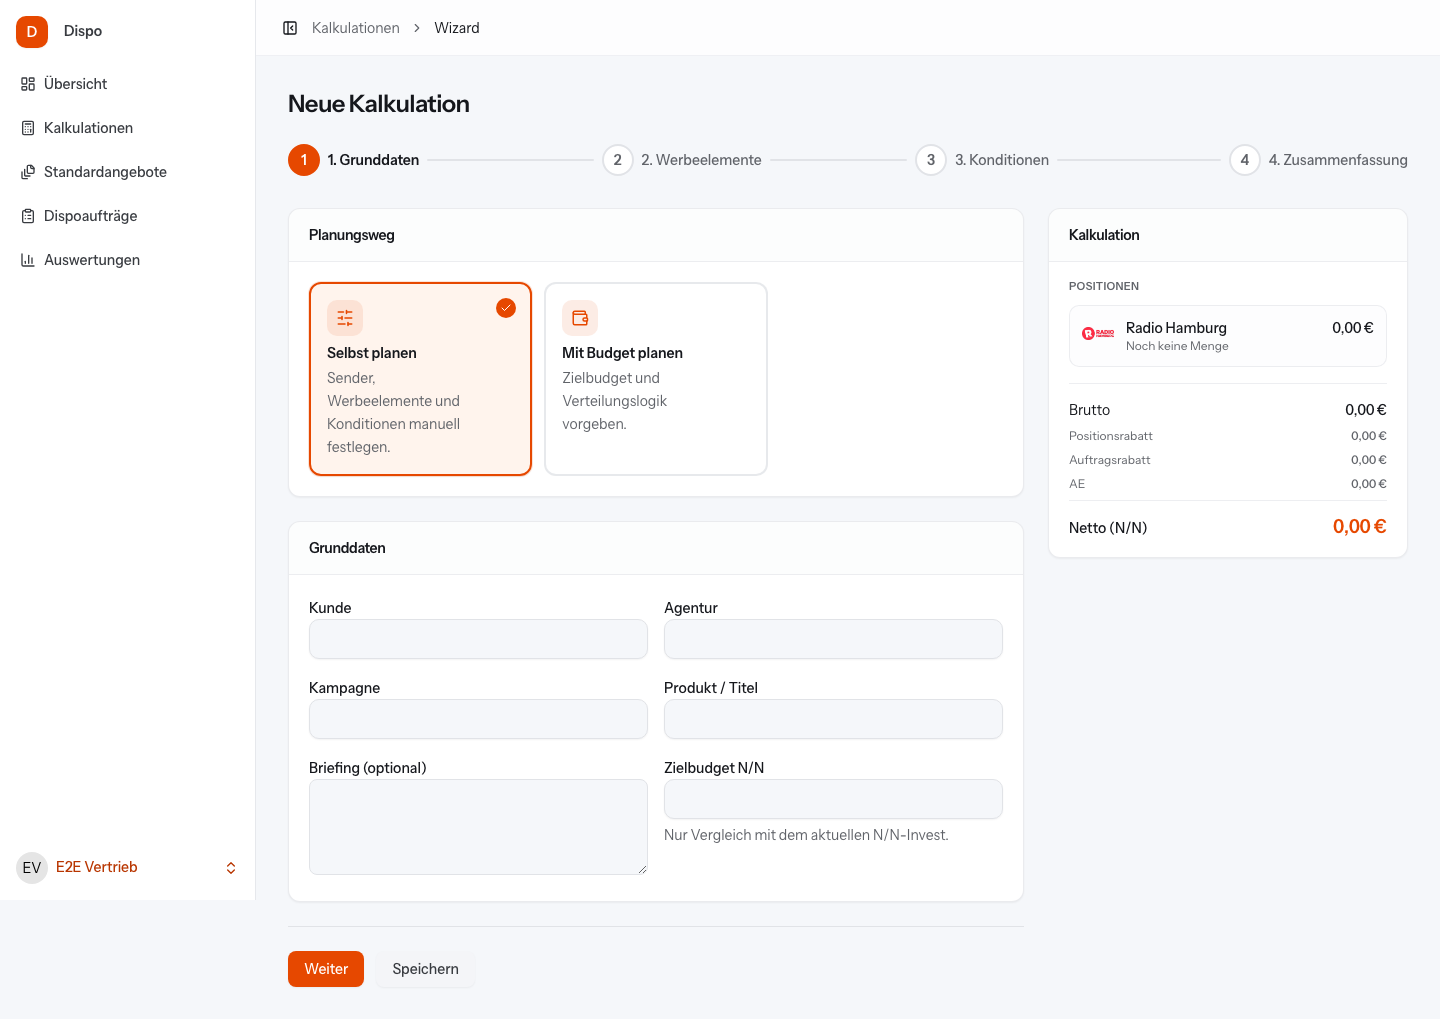
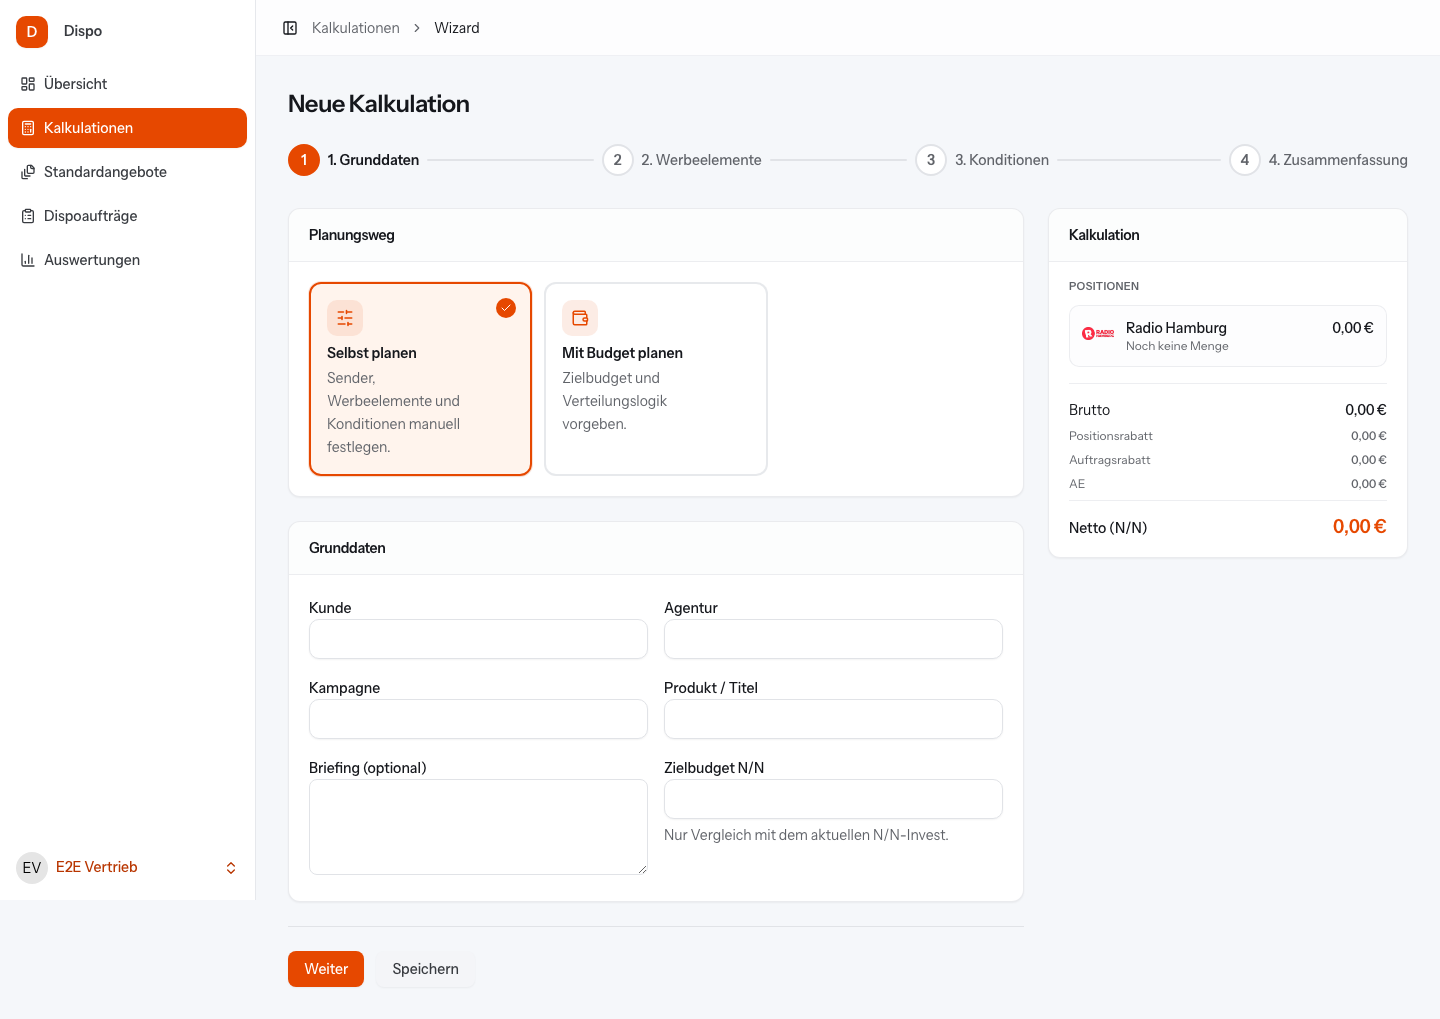
fix: complete wizard visual alignment
OLDIE-Logo alpha-basiert neu erzeugt, Nav-Active-State für Kalkulations-Unterrouten,
Formularfelder optisch getrennt und Screenshots aktualisiert.

Changed region(s): [[0.0, 0.0913, 0.1875, 0.1521]]

diff --git a/resources/js/components/form-field.tsx b/resources/js/components/form-field.tsx
@@ -59,11 +59,11 @@ export function formatSecondPrice(
 
 /** Shared class names for native select elements in forms. */
 export const formSelectClass =
-    'border-input focus-visible:border-ring focus-visible:ring-ring/50 disabled:bg-muted/50 disabled:text-muted-foreground h-9 w-full rounded-md border bg-background px-3 text-sm outline-none focus-visible:ring-[3px] disabled:cursor-not-allowed';
+    'border-input text-foreground focus-visible:border-primary focus-visible:ring-primary/25 disabled:bg-muted disabled:text-muted-foreground/80 h-9 w-full rounded-md border bg-white px-3 text-sm outline-none hover:border-border focus-visible:ring-[3px] disabled:cursor-not-allowed';
 
 /** Shared class names for multiline text inputs. */
 export const formTextareaClass =
-    'border-input focus-visible:border-ring focus-visible:ring-ring/50 disabled:bg-muted/50 disabled:text-muted-foreground min-h-24 w-full rounded-md border bg-background px-3 py-2 text-sm outline-none focus-visible:ring-[3px] disabled:cursor-not-allowed';
+    'border-input text-foreground focus-visible:border-primary focus-visible:ring-primary/25 disabled:bg-muted disabled:text-muted-foreground/80 min-h-24 w-full rounded-md border bg-white px-3 py-2 text-sm outline-none hover:border-border focus-visible:ring-[3px] disabled:cursor-not-allowed';
 
 export function FieldTable({
     className,

diff --git a/resources/js/components/nav-main.tsx b/resources/js/components/nav-main.tsx
@@ -10,13 +10,13 @@ import { cn } from '@/lib/utils';
 import type { NavItem } from '@/types';
 
 export function NavMain({ items }: { items: NavItem[] }) {
-    const { isCurrentUrl } = useCurrentUrl();
+    const { isCurrentOrParentUrl } = useCurrentUrl();
 
     return (
         <SidebarGroup className="px-2 py-0">
             <SidebarMenu className="gap-1">
                 {items.map((item) => {
-                    const active = isCurrentUrl(item.href);
+                    const active = isCurrentOrParentUrl(item.href);
 
                     return (
                         <SidebarMenuItem key={item.title}>
@@ -31,7 +31,11 @@ export function NavMain({ items }: { items: NavItem[] }) {
                                         : 'text-sidebar-foreground hover:bg-muted/80',
                                 )}
                             >
-                                <Link href={item.href} prefetch>
+                                <Link
+                                    href={item.href}
+                                    prefetch
+                                    aria-current={active ? 'page' : undefined}
+                                >
                                     {item.icon && <item.icon />}
                                     <span className="font-medium">
                                         {item.title}

diff --git a/tests/e2e/smoke.spec.ts b/tests/e2e/smoke.spec.ts
@@ -4,8 +4,12 @@ async function loginAsSales(page: import('@playwright/test').Page) {
     await page.goto('/login');
     await page.locator('#email').fill('sales@example.com');
     await page.locator('#password').fill('password');
-    await page.getByRole('button', { name: 'Log in' }).click();
-    await expect(page).not.toHaveURL(/login/);
+    await page.locator('[data-test="login-button"]').click();
+    await page.waitForFunction(
+        () => !window.location.pathname.includes('/login'),
+        undefined,
+        { timeout: 30_000 },
+    );
 }
 
 test('Health-Endpunkt antwortet', async ({ request }) => {
@@ -24,6 +28,19 @@ test('Startseite ist erreichbar', async ({ page }) => {
 test('Kalkulationen erfordern Anmeldung', async ({ page }) => {
     await page.goto('/kalkulationen');
     await expect(page).toHaveURL(/login/);
+});
+
+test('Wizard markiert Kalkulationen in der Navigation als aktiv', async ({
+    page,
+}) => {
+    await loginAsSales(page);
+    await page.goto('/kalkulationen/neu');
+
+    const navLink = page.locator('[data-sidebar="menu-button"]', {
+        hasText: 'Kalkulationen',
+    });
+    await expect(navLink).toHaveAttribute('aria-current', 'page');
+    await expect(navLink).toHaveClass(/bg-primary/);
 });
 
 test('CAL-001 Mehrsender-Wizard mit Durchschnitt und Konditionen', async ({

diff --git a/resources/js/components/ui/input.tsx b/resources/js/components/ui/input.tsx
@@ -8,7 +8,7 @@ function Input({ className, type, ...props }: React.ComponentProps<"input">) {
       type={type}
       data-slot="input"
       className={cn(
-        "border-input file:text-foreground placeholder:text-muted-foreground selection:bg-primary selection:text-primary-foreground flex h-10 w-full min-w-0 rounded-lg border bg-background px-3 py-1 text-base shadow-xs transition-[color,box-shadow] outline-none file:inline-flex file:h-7 file:border-0 file:bg-transparent file:text-sm file:font-medium disabled:cursor-not-allowed disabled:bg-muted/50 disabled:text-muted-foreground md:text-sm",
+        "border-input file:text-foreground placeholder:text-muted-foreground selection:bg-primary selection:text-primary-foreground flex h-10 w-full min-w-0 rounded-lg border bg-white px-3 py-1 text-base text-foreground shadow-xs transition-[color,box-shadow,background-color,border-color] outline-none file:inline-flex file:h-7 file:border-0 file:bg-transparent file:text-sm file:font-medium hover:border-border disabled:cursor-not-allowed disabled:bg-muted disabled:text-muted-foreground/80 md:text-sm",
         "focus-visible:border-primary focus-visible:ring-primary/25 focus-visible:ring-[3px]",
         "aria-invalid:ring-destructive/20 dark:aria-invalid:ring-destructive/40 aria-invalid:border-destructive",
         className

diff --git a/resources/js/components/logo-slot.tsx b/resources/js/components/logo-slot.tsx
@@ -32,7 +32,7 @@ export function LogoSlot({
                 className={cn(
                     'max-h-full max-w-full object-contain',
                     variant === 'inline' && 'size-8',
-                    variant === 'card' && 'h-12 w-auto max-w-[92%]',
+                    variant === 'card' && 'max-h-[5.25rem] w-auto max-w-[92%]',
                 )}
             />
         );
@@ -41,7 +41,7 @@ export function LogoSlot({
             return (
                 <span
                     className={cn(
-                        'bg-background border-border/70 flex h-16 w-full shrink-0 items-center justify-center rounded-lg border p-3',
+                        'bg-background border-border/70 flex h-24 w-full shrink-0 items-center justify-center rounded-lg border p-3',
                         className,
                     )}
                 >
@@ -68,7 +68,7 @@ export function LogoSlot({
             className={cn(
                 'bg-muted text-muted-foreground inline-flex shrink-0 items-center justify-center rounded-lg text-xs font-semibold',
                 variant === 'inline' && 'size-8',
-                variant === 'card' && 'h-16 w-full text-sm',
+                variant === 'card' && 'h-24 w-full text-sm',
                 className,
             )}
             title={name}

diff --git a/resources/js/hooks/use-current-url.test.ts b/resources/js/hooks/use-current-url.test.ts
@@ -1,0 +1,40 @@
+import { expect, test } from 'vitest';
+import { toUrl } from '@/lib/utils';
+
+function isCurrentUrl(
+    urlToCheck: string,
+    currentUrlPath: string,
+    startsWith = false,
+): boolean {
+    return startsWith
+        ? currentUrlPath.startsWith(urlToCheck)
+        : currentUrlPath === urlToCheck;
+}
+
+function isCurrentOrParentUrl(
+    urlToCheck: string,
+    currentUrlPath: string,
+): boolean {
+    return isCurrentUrl(toUrl(urlToCheck), currentUrlPath, true);
+}
+
+test('Kalkulationen-Unterrouten erkennen den Hauptnavigationspunkt', () => {
+    expect(isCurrentOrParentUrl('/kalkulationen', '/kalkulationen/neu')).toBe(
+        true,
+    );
+    expect(isCurrentOrParentUrl('/kalkulationen', '/kalkulationen/42')).toBe(
+        true,
+    );
+    expect(isCurrentOrParentUrl('/kalkulationen', '/kalkulationen')).toBe(
+        true,
+    );
+});
+
+test('andere Navigationspunkte bleiben auf Unterrouten inaktiv', () => {
+    expect(isCurrentOrParentUrl('/dashboard', '/kalkulationen/neu')).toBe(
+        false,
+    );
+    expect(isCurrentOrParentUrl('/stammdaten', '/kalkulationen/neu')).toBe(
+        false,
+    );
+});

diff --git a/tests/Feature/Calculation/SenderLogoAssetTest.php b/tests/Feature/Calculation/SenderLogoAssetTest.php
@@ -1,0 +1,90 @@
+<?php
+
+namespace Tests\Feature\Calculation;
+
+use Tests\TestCase;
+
+class SenderLogoAssetTest extends TestCase
+{
+    /**
+     * @return array{width: int, height: int, visible: int, transparent: int, dark: int}
+     */
+    private function analyzePng(string $path): array
+    {
+        $image = imagecreatefrompng($path);
+        $this->assertNotFalse($image, "Invalid PNG: {$path}");
+
+        $width = imagesx($image);
+        $height = imagesy($image);
+        $visible = 0;
+        $transparent = 0;
+        $dark = 0;
+
+        for ($y = 0; $y < $height; $y++) {
+            for ($x = 0; $x < $width; $x++) {
+                $rgba = imagecolorat($image, $x, $y);
+                $alpha = ($rgba >> 24) & 0x7F;
+
+                if ($alpha >= 127) {
+                    $transparent++;
+
+                    continue;
+                }
+
+                $visible++;
+                $red = ($rgba >> 16) & 0xFF;
+                $green = ($rgba >> 8) & 0xFF;
+                $blue = $rgba & 0xFF;
+
+                if ($red < 64 && $green < 64 && $blue < 64) {
+                    $dark++;
+                }
+            }
+        }
+
+        return compact('width', 'height', 'visible', 'transparent', 'dark');
+    }
+
+    public function test_sender_logos_sind_gueltige_pngs_mit_transparenz(): void
+    {
+        foreach ([
+            'radio-hamburg.png',
+            '80er-90er-oldie-antenne-hamburg.png',
+        ] as $file) {
+            $path = public_path("images/senders/{$file}");
+            $this->assertFileExists($path);
+
+            $stats = $this->analyzePng($path);
+
+            $this->assertGreaterThan(0, $stats['width']);
+            $this->assertGreaterThan(0, $stats['height']);
+            $this->assertGreaterThan(0, $stats['visible'], "{$file} has no visible pixels");
+            $this->assertGreaterThan(0, $stats['transparent'], "{$file} has no transparent pixels");
+        }
+    }
+
+    public function test_oldie_logo_hat_dunkle_pixel_und_quadratisches_seitenverhaeltnis(): void
+    {
+        $path = public_path('images/senders/80er-90er-oldie-antenne-hamburg.png');
+        $stats = $this->analyzePng($path);
+
+        $this->assertGreaterThan(
+            100,
+            $stats['dark'],
+            'OLDIE logo should retain visible dark artwork pixels',
+        );
+
+        $aspect = $stats['width'] / $stats['height'];
+
+        $this->assertGreaterThan(
+            0.75,
+            $aspect,
+            'OLDIE logo must not be cropped to a narrow horizontal format',
+        );
+        $this->assertLessThan(
+            1.35,
+            $aspect,
+            'OLDIE logo must remain roughly square or tall',
+        );
+    }
+}
